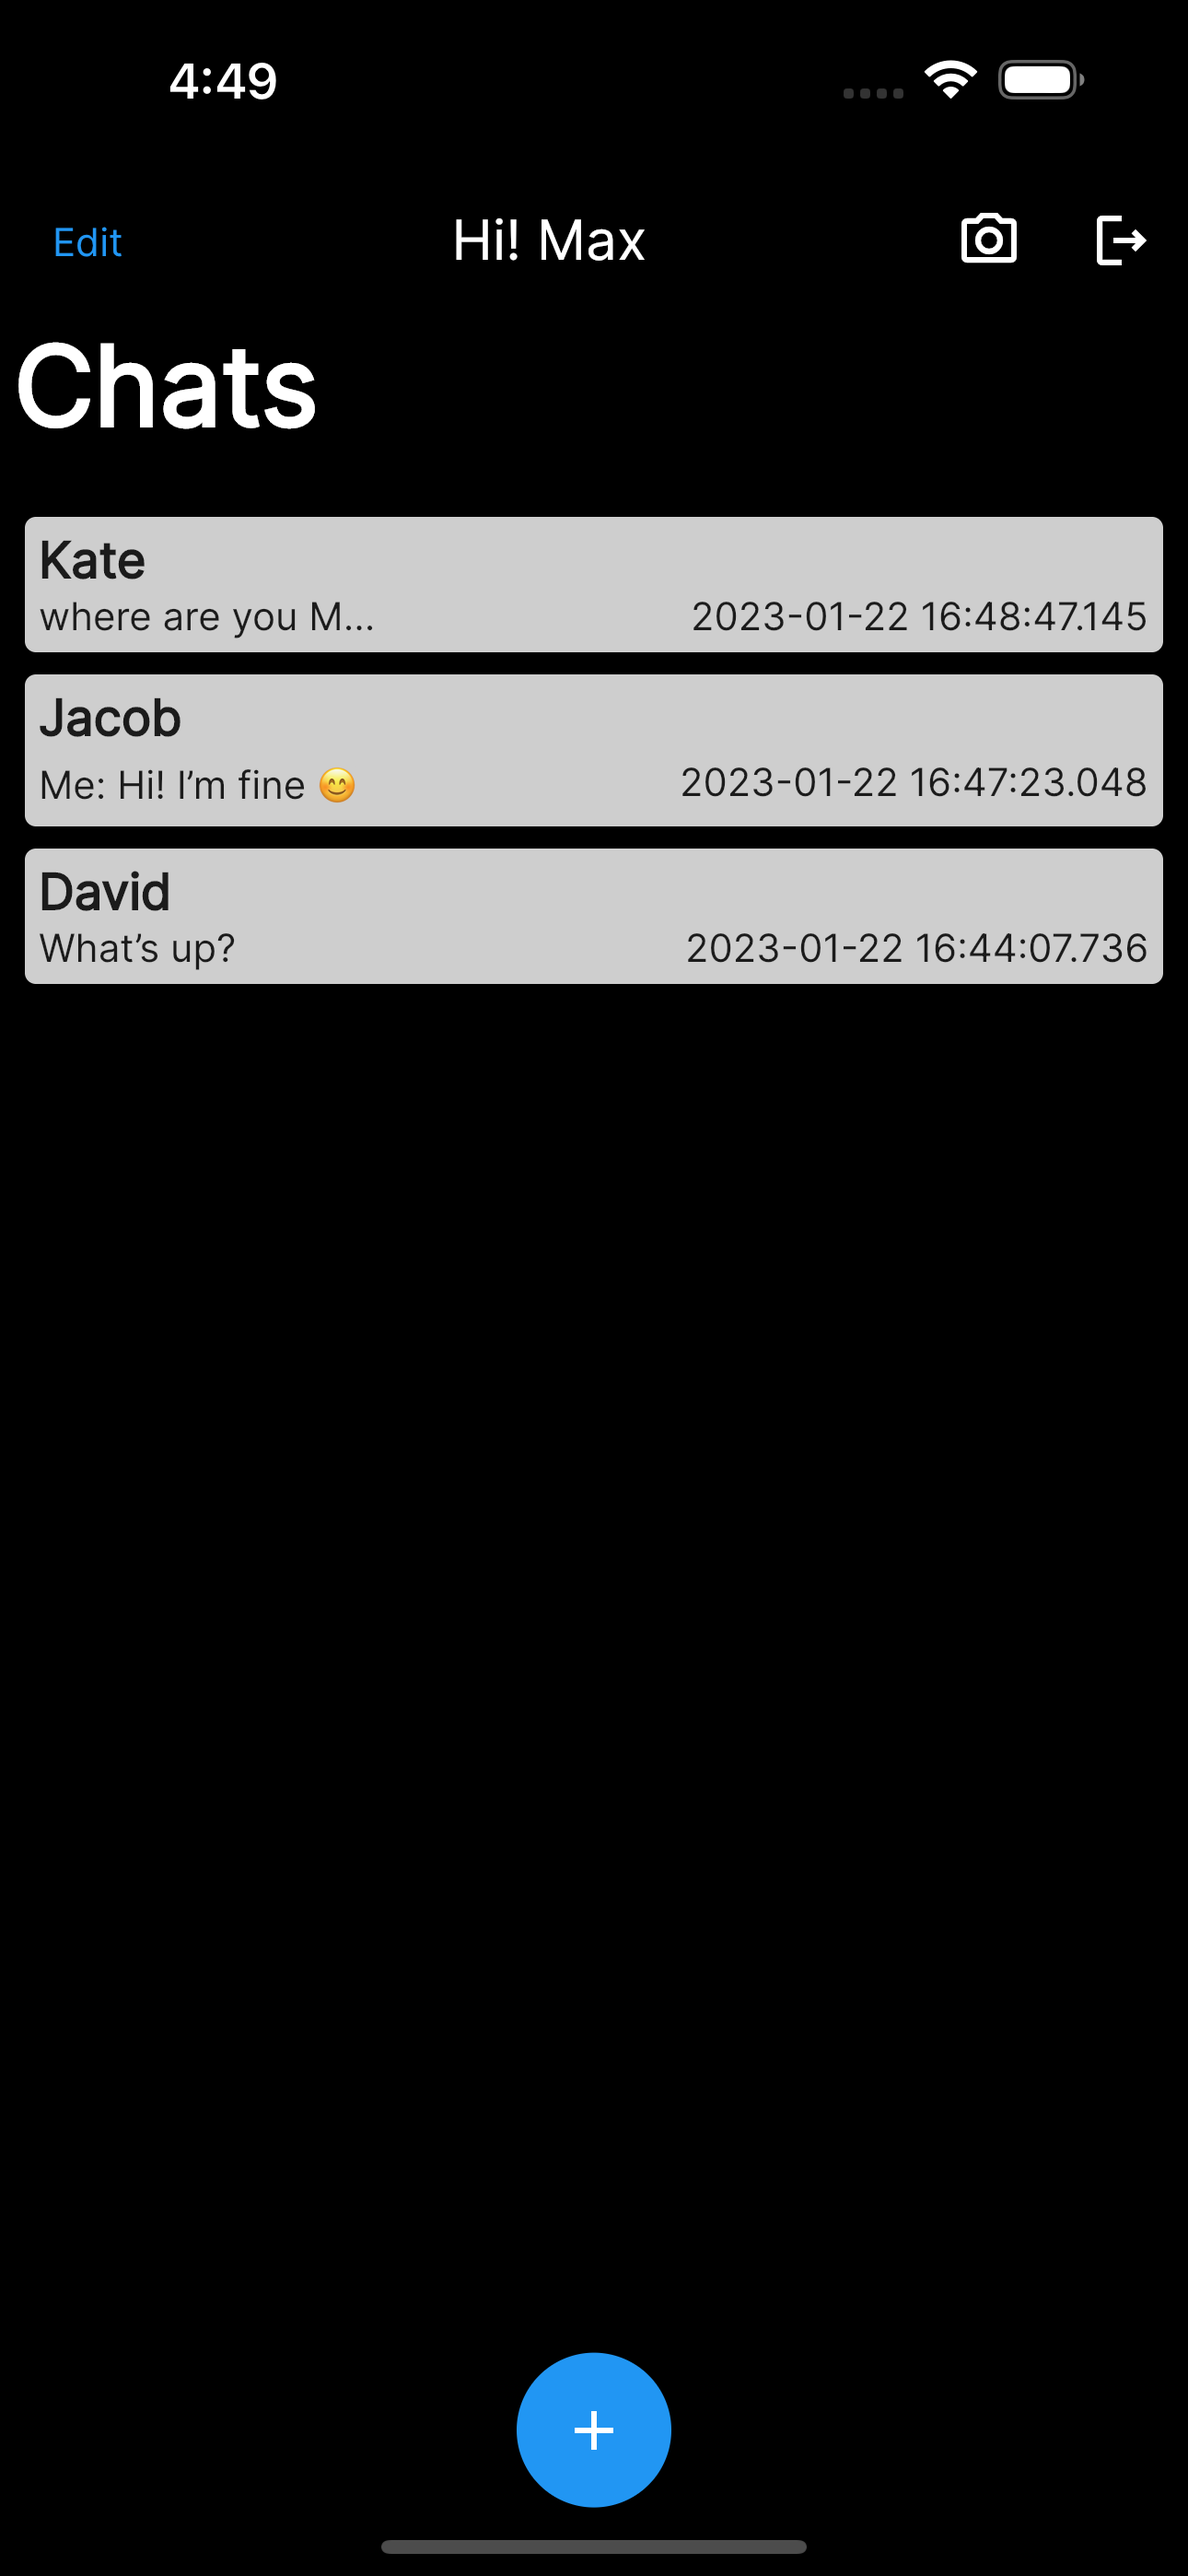
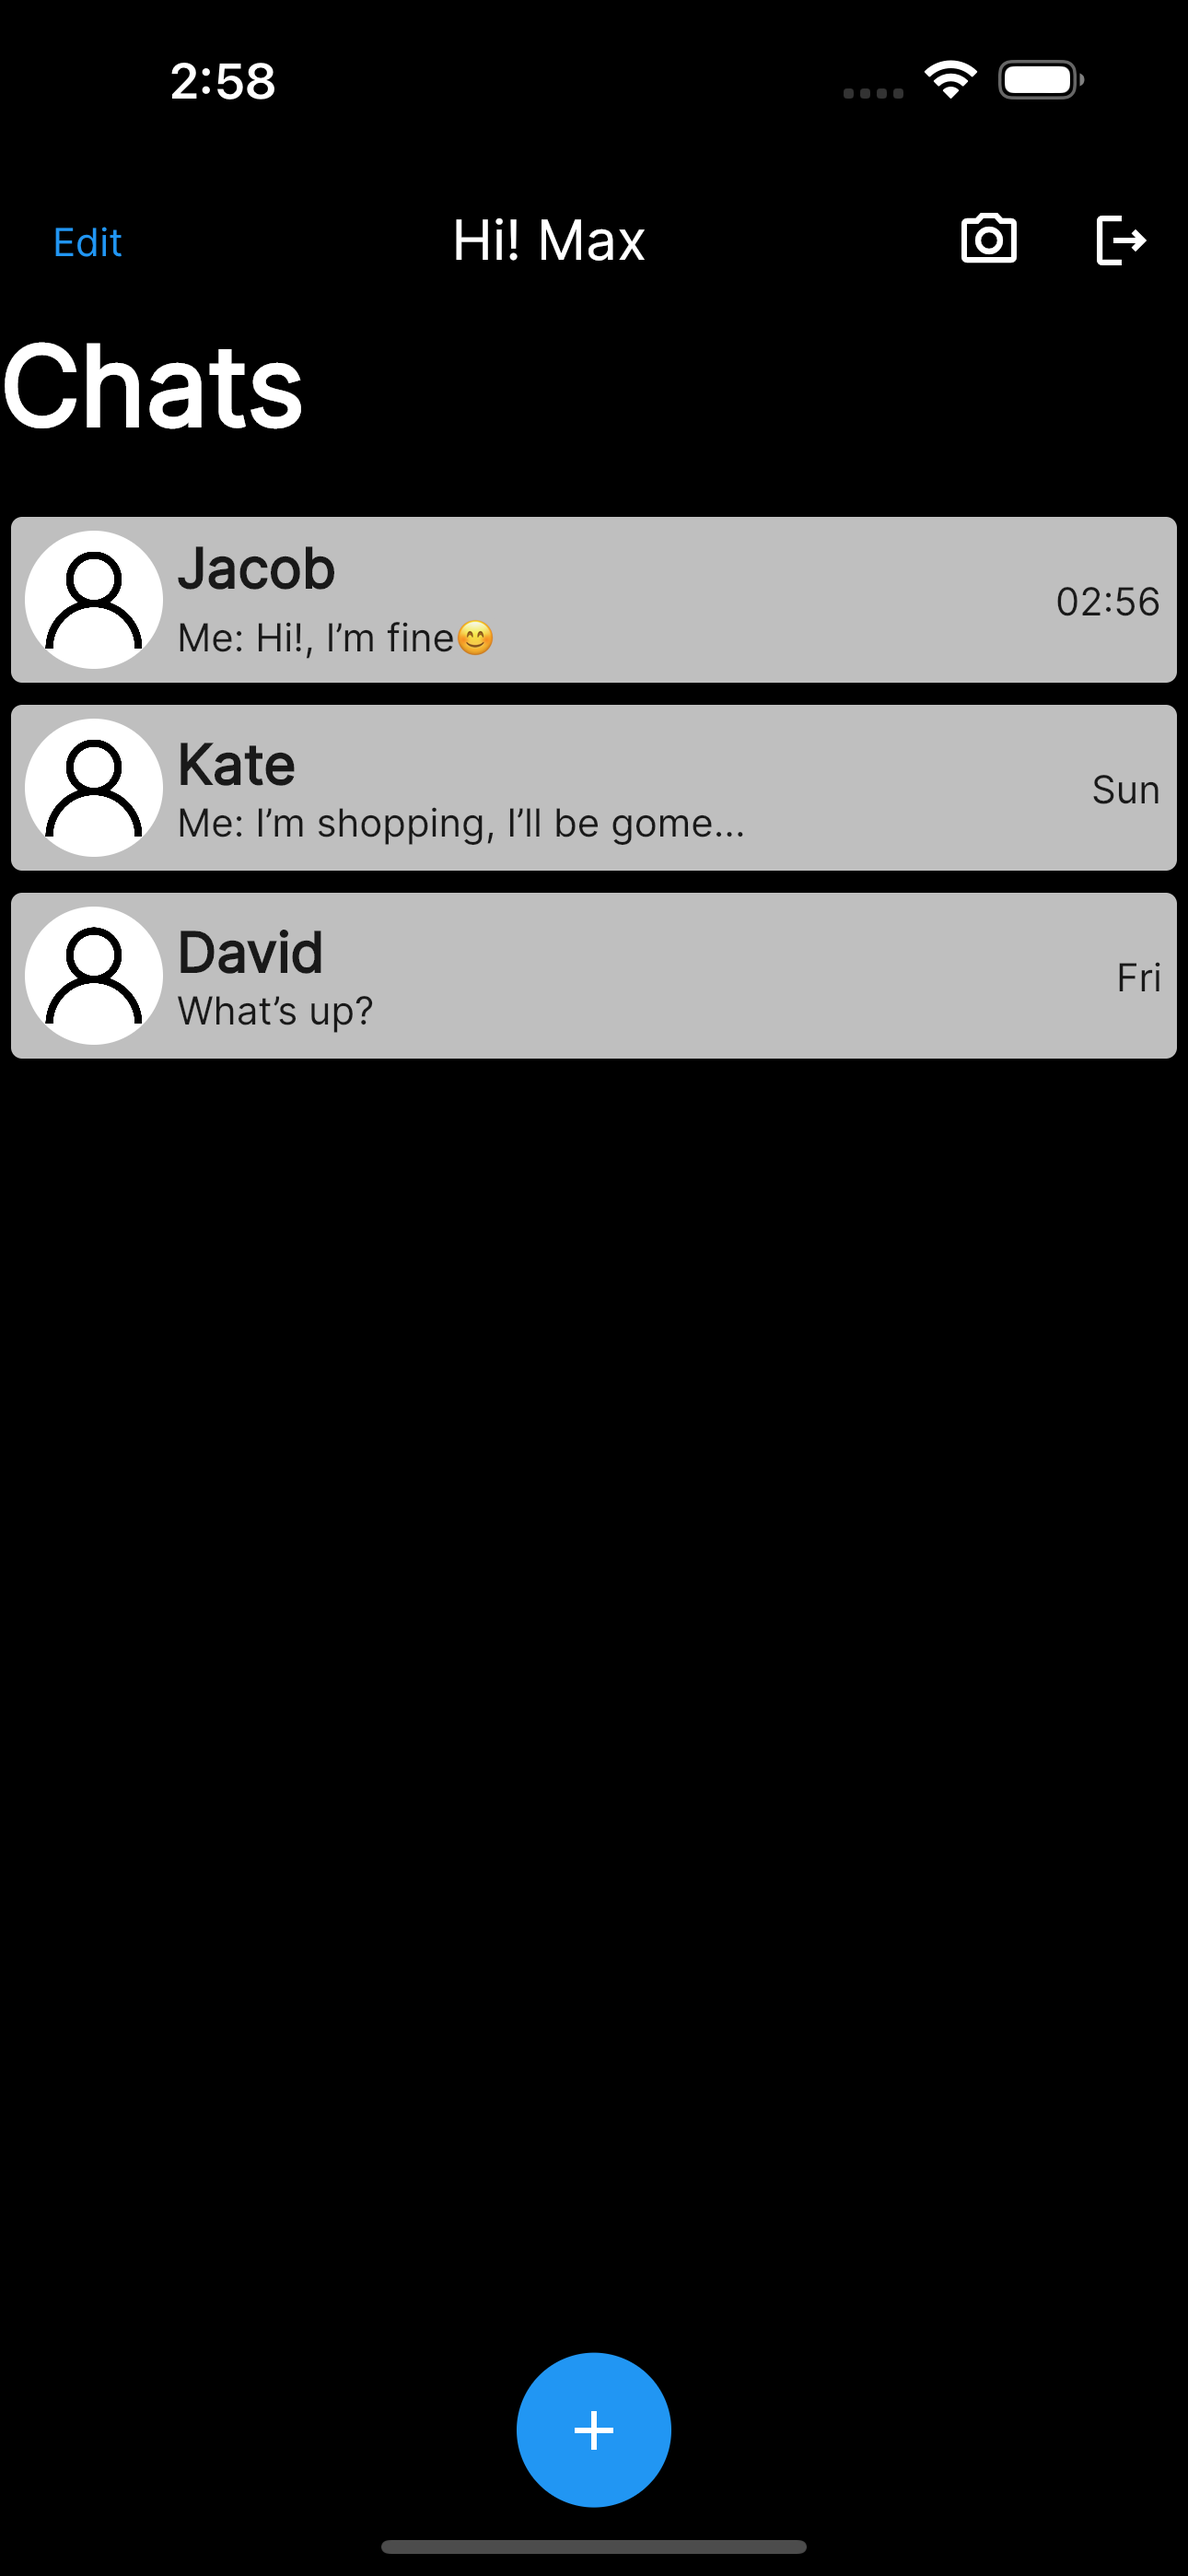
Homescreen datetime format change, UI change

Changed region(s): [[0.0, 0.1245, 0.9922, 0.4356], [0.186, 0.0, 0.2171, 0.0622]]

diff --git a/lib/screens/home_screen.dart b/lib/screens/home_screen.dart
@@ -5,6 +5,7 @@ import 'package:firebase_auth/firebase_auth.dart';
 import 'package:provider/provider.dart';
 import '../auth_notifier.dart';
 import '../extensions/string_extension.dart';
+import 'package:intl/intl.dart';
 
 class HomeScreen extends StatefulWidget {
   const HomeScreen({super.key});
@@ -44,7 +45,19 @@ class HomeScreen extends StatefulWidget {
   timestampFormat(document) {
     Timestamp timestamp = document;
     DateTime date = timestamp.toDate();
-    return (date.toString());
+    String hourDate = DateFormat.Hm().format(date);
+    String dayDate = DateFormat.E().format(date);
+    String monthDayDate = DateFormat.MMMMd().format(date);
+
+    var currentDateTime = DateTime.now();
+
+    if (currentDateTime.difference(date).inHours < 24) {
+      return hourDate.toString();
+    } else if (currentDateTime.difference(date).inDays < 7) {
+      return dayDate.toString();
+    } else {
+      return monthDayDate.toString();
+    }
   }
 
   snackbar(String text, BuildContext context) {
@@ -73,31 +86,36 @@ class _HomeScreenState extends State<HomeScreen> {
       child: Scaffold(
           resizeToAvoidBottomInset: false,
           appBar: AppBar(
-              automaticallyImplyLeading: false,
-              titleSpacing: 0,
-              title: Row(
-                mainAxisAlignment: MainAxisAlignment.spaceBetween,
-                children: [
-                  TextButton(
-                      onPressed: () => print('123'), child: const Text('Edit')),
-                  Text('Hi! ${widget.getMyUsername()}'),
-                  Row(
-                    children: [
-                      IconButton(
-                        icon: const Icon(Icons.camera_alt_outlined),
-                        onPressed: () {},
-                      ),
-                      IconButton(
-                          icon: const Icon(Icons.logout_outlined),
-                          onPressed: () {
-                            auth.logout();
-                          }),
-                    ],
-                  ),
-                ],
-              )),
-          body: Container(
-            margin: const EdgeInsets.symmetric(horizontal: 5),
+            automaticallyImplyLeading: false,
+            titleSpacing: 0,
+            title: Row(
+              mainAxisAlignment: MainAxisAlignment.spaceBetween,
+              children: [
+                TextButton(
+                    onPressed: () => print('123'), child: const Text('Edit')),
+                Text('Hi! ${widget.getMyUsername()}'),
+                Row(
+                  children: [
+                    IconButton(
+                      icon: const Icon(Icons.camera_alt_outlined),
+                      onPressed: () {},
+                    ),
+                    IconButton(
+                        icon: const Icon(Icons.logout_outlined),
+                        onPressed: () {
+                          auth.logout();
+                        }),
+                  ],
+                ),
+              ],
+            ),
+            shape: const RoundedRectangleBorder(
+              borderRadius: BorderRadius.vertical(
+                bottom: Radius.circular(25),
+              ),
+            ),
+          ),
+          body: SizedBox(
             height: MediaQuery.of(context).size.height * 0.85,
             child: Column(
               mainAxisAlignment: MainAxisAlignment.spaceBetween,
@@ -137,9 +155,9 @@ class _HomeScreenState extends State<HomeScreen> {
                                       .toString();
                                   String shortenedMsg = fullSizeMsg.substring(
                                       0,
-                                      fullSizeMsg.length <= 15
+                                      fullSizeMsg.length <= 26
                                           ? fullSizeMsg.length
-                                          : 15);
+                                          : 26);
                                   final chatId =
                                       snapshot.data!.docs[index]['chatID'];
                                   if (processedChatIds.contains(chatId)) {
@@ -163,36 +181,51 @@ class _HomeScreenState extends State<HomeScreen> {
                                         },
                                         child: Card(
                                           color: const Color.fromARGB(
-                                              255, 206, 206, 206),
+                                              255, 191, 191, 191),
                                           child: Padding(
                                             padding: const EdgeInsets.all(5),
-                                            child: Column(
-                                              crossAxisAlignment:
-                                                  CrossAxisAlignment.start,
+                                            child: Row(
                                               children: [
-                                                snapshot.data!.docs[index]
-                                                            ['sender'] ==
-                                                        widget.getMyUsername()
-                                                    ? Text(
-                                                        snapshot.data!
-                                                                .docs[index]
-                                                            ['receiver'],
-                                                        style: const TextStyle(
-                                                            fontWeight:
-                                                                FontWeight.bold,
-                                                            fontSize: 18),
-                                                      )
-                                                    : Text(
-                                                        snapshot.data!
-                                                                .docs[index]
-                                                            ['sender'],
-                                                        style: const TextStyle(
-                                                            fontWeight:
-                                                                FontWeight.bold,
-                                                            fontSize: 18),
-                                                      ),
-                                                Row(
+                                                CircleAvatar(
+                                                  minRadius: 25,
+                                                  maxRadius: 25,
+                                                  backgroundColor: Colors.white,
+                                                  child: SizedBox(
+                                                      height: 35,
+                                                      child: Image.asset(
+                                                          'assets/img/user.png')),
+                                                ),
+                                                const SizedBox(
+                                                  width: 5,
+                                                ),
+                                                Column(
+                                                  crossAxisAlignment:
+                                                      CrossAxisAlignment.start,
                                                   children: [
+                                                    snapshot.data!.docs[index]
+                                                                ['sender'] ==
+                                                            widget
+                                                                .getMyUsername()
+                                                        ? Text(
+                                                            snapshot.data!
+                                                                    .docs[index]
+                                                                ['receiver'],
+                                                            style: const TextStyle(
+                                                                fontWeight:
+                                                                    FontWeight
+                                                                        .bold,
+                                                                fontSize: 20),
+                                                          )
+                                                        : Text(
+                                                            snapshot.data!
+                                                                    .docs[index]
+                                                                ['sender'],
+                                                            style: const TextStyle(
+                                                                fontWeight:
+                                                                    FontWeight
+                                                                        .bold,
+                                                                fontSize: 20),
+                                                          ),
                                                     snapshot.data!.docs[index]
                                                                 ['sender'] ==
                                                             widget
@@ -210,20 +243,19 @@ class _HomeScreenState extends State<HomeScreen> {
                                                             ? Text(shortenedMsg)
                                                             : Text(
                                                                 '$shortenedMsg...'),
-                                                    const Spacer(),
-                                                    snapshot.data!.docs[index]
-                                                                ['created'] !=
-                                                            null
-                                                        ? Text(
-                                                            widget.timestampFormat(
-                                                                snapshot.data!
-                                                                            .docs[
-                                                                        index][
-                                                                    'created']),
-                                                          )
-                                                        : Container(),
                                                   ],
                                                 ),
+                                                const Spacer(),
+                                                snapshot.data!.docs[index]
+                                                            ['created'] !=
+                                                        null
+                                                    ? Text(
+                                                        widget.timestampFormat(
+                                                            snapshot.data!
+                                                                    .docs[index]
+                                                                ['created']),
+                                                      )
+                                                    : Container(),
                                               ],
                                             ),
                                           ),

diff --git a/lib/screens/chat_screen.dart b/lib/screens/chat_screen.dart
@@ -117,7 +117,7 @@ class _ChatScreenState extends State<ChatScreen> {
                                 margin: const EdgeInsets.only(
                                     right: 80, left: 5, top: 5, bottom: 5),
                                 decoration: const BoxDecoration(
-                                    color: Colors.white,
+                                    color: Color.fromARGB(255, 217, 217, 217),
                                     borderRadius:
                                         BorderRadius.all(Radius.circular(5))),
                                 child: Row(

diff --git a/lib/theme/app_themes.dart b/lib/theme/app_themes.dart
@@ -7,7 +7,9 @@ class CustomTheme {
       textTheme: GoogleFonts.interTextTheme(),
       primarySwatch: Colors.blue,
       scaffoldBackgroundColor: Colors.black,
-      appBarTheme: const AppBarTheme(backgroundColor: Colors.black),
+      appBarTheme: const AppBarTheme(
+        backgroundColor: Colors.black,
+      ),
       elevatedButtonTheme: ElevatedButtonThemeData(
         style: ElevatedButton.styleFrom(
           backgroundColor: Colors.deepPurple, // background (button) color
